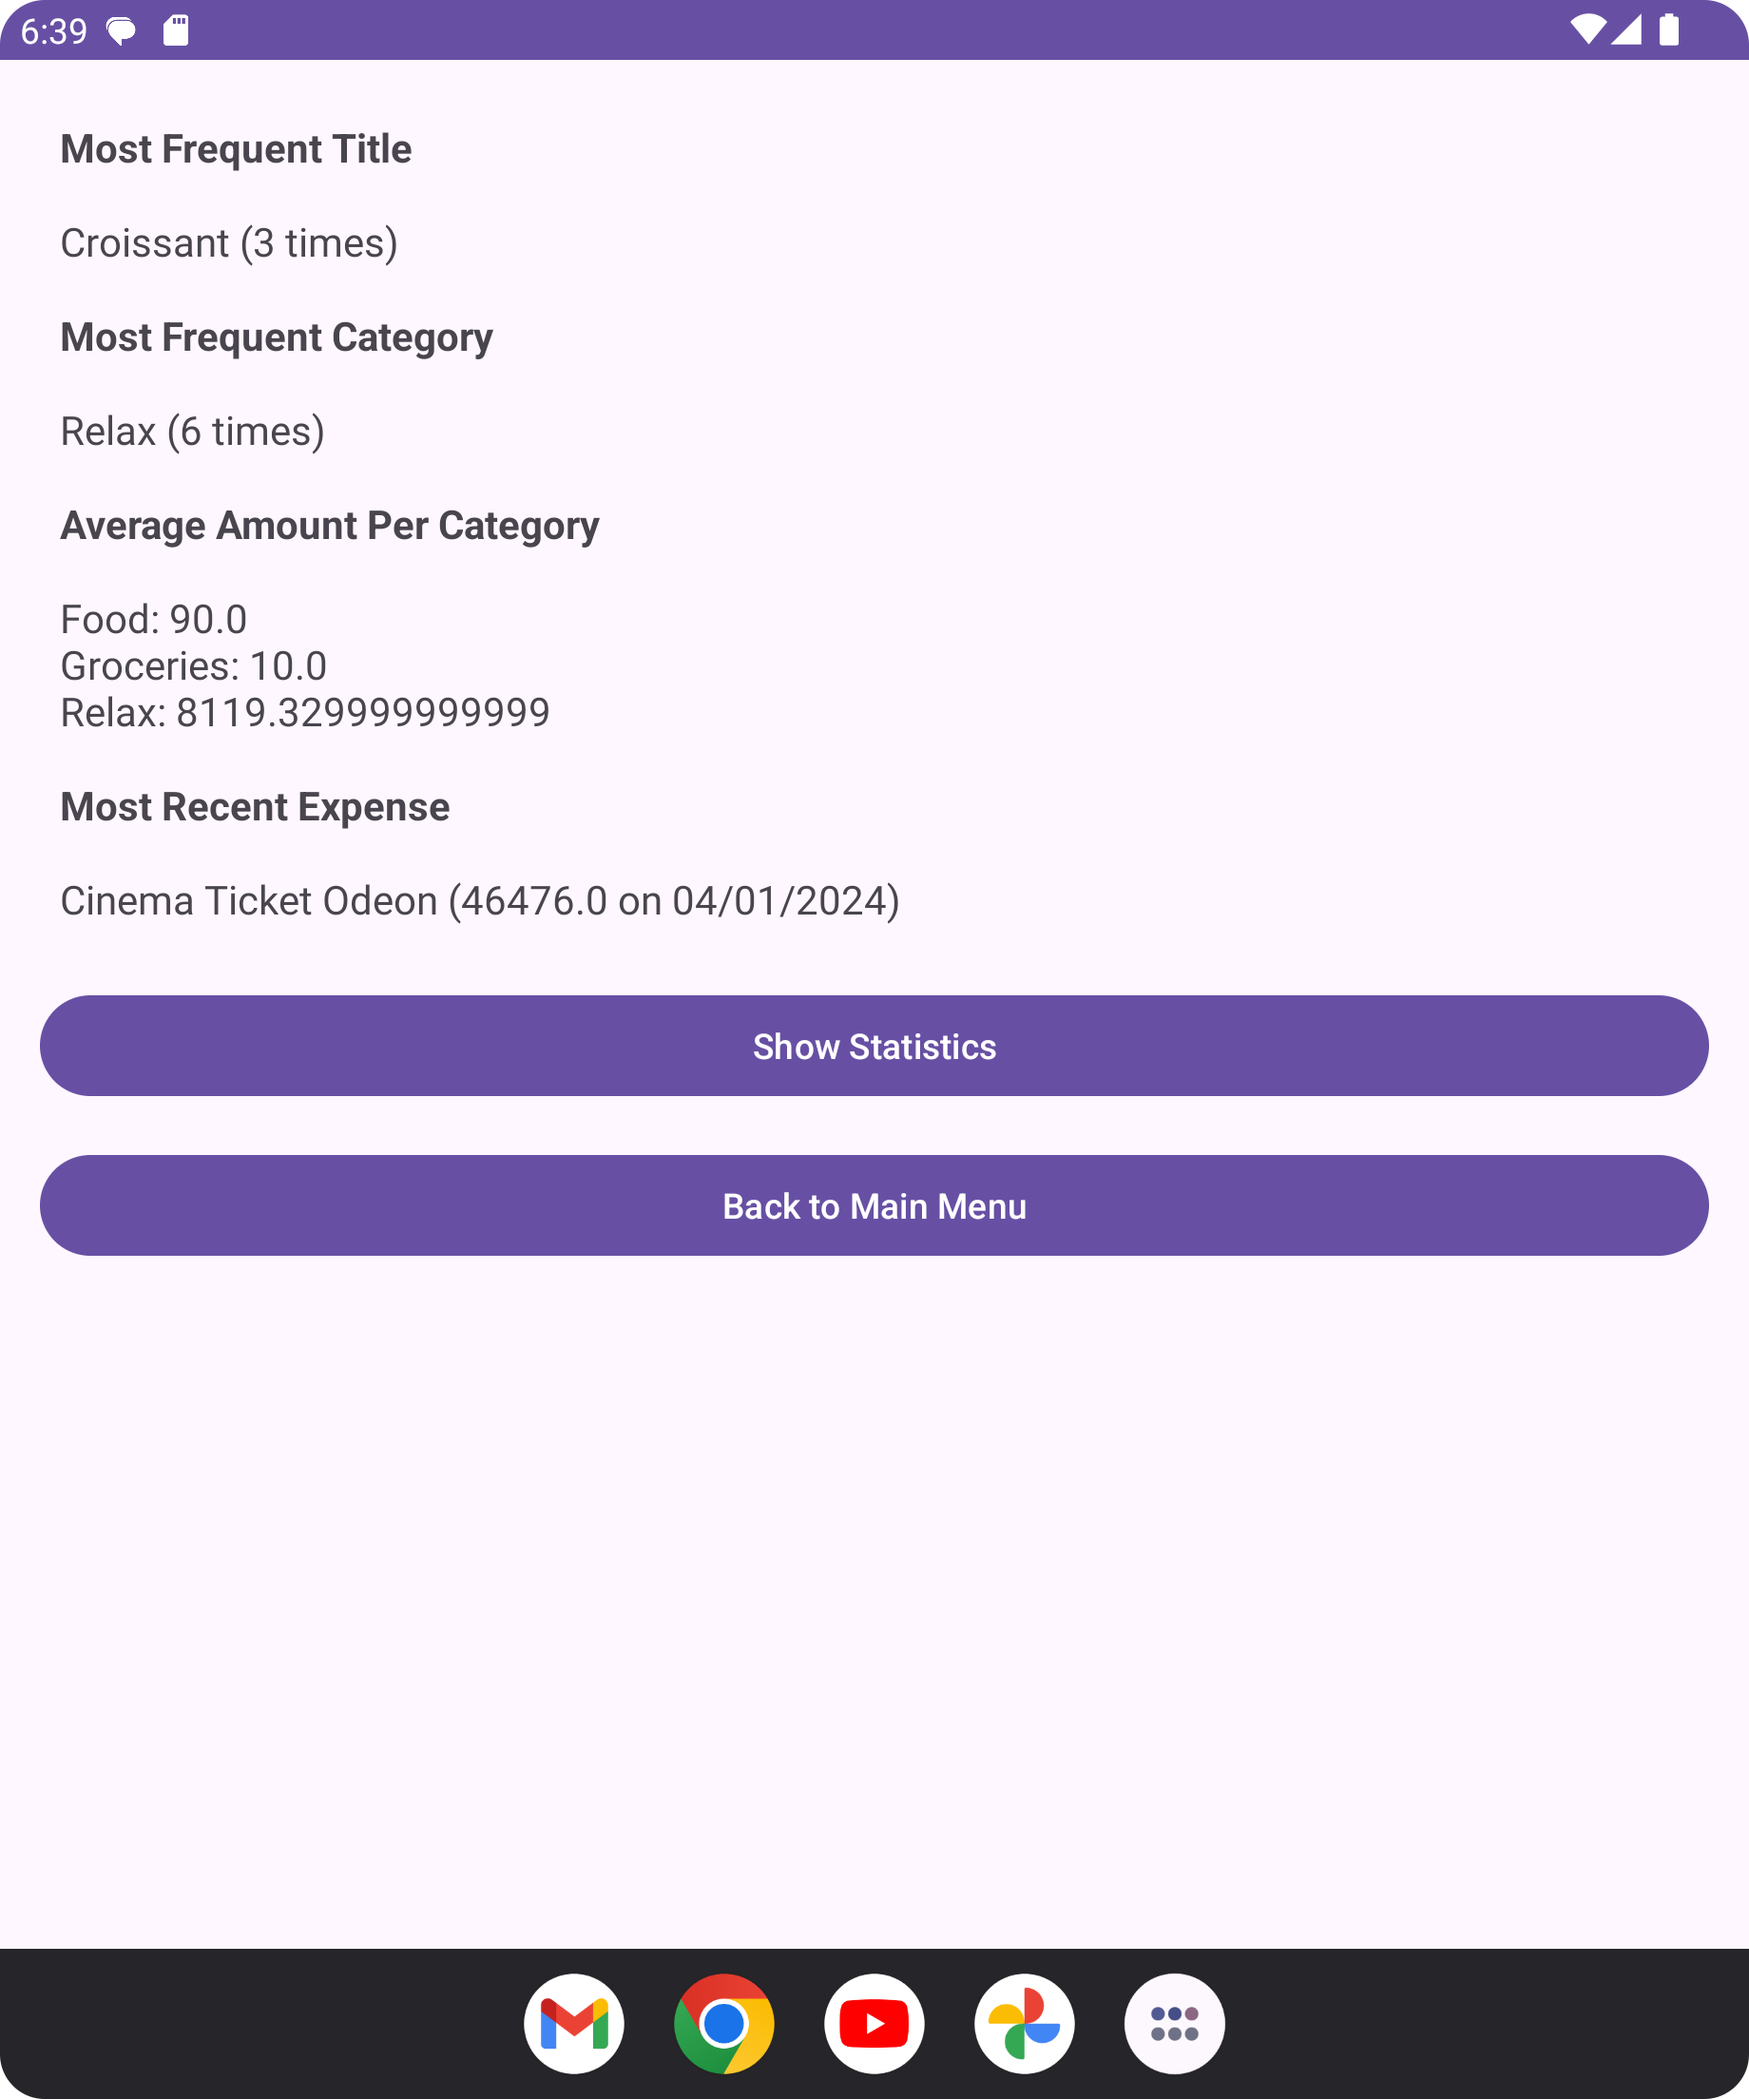
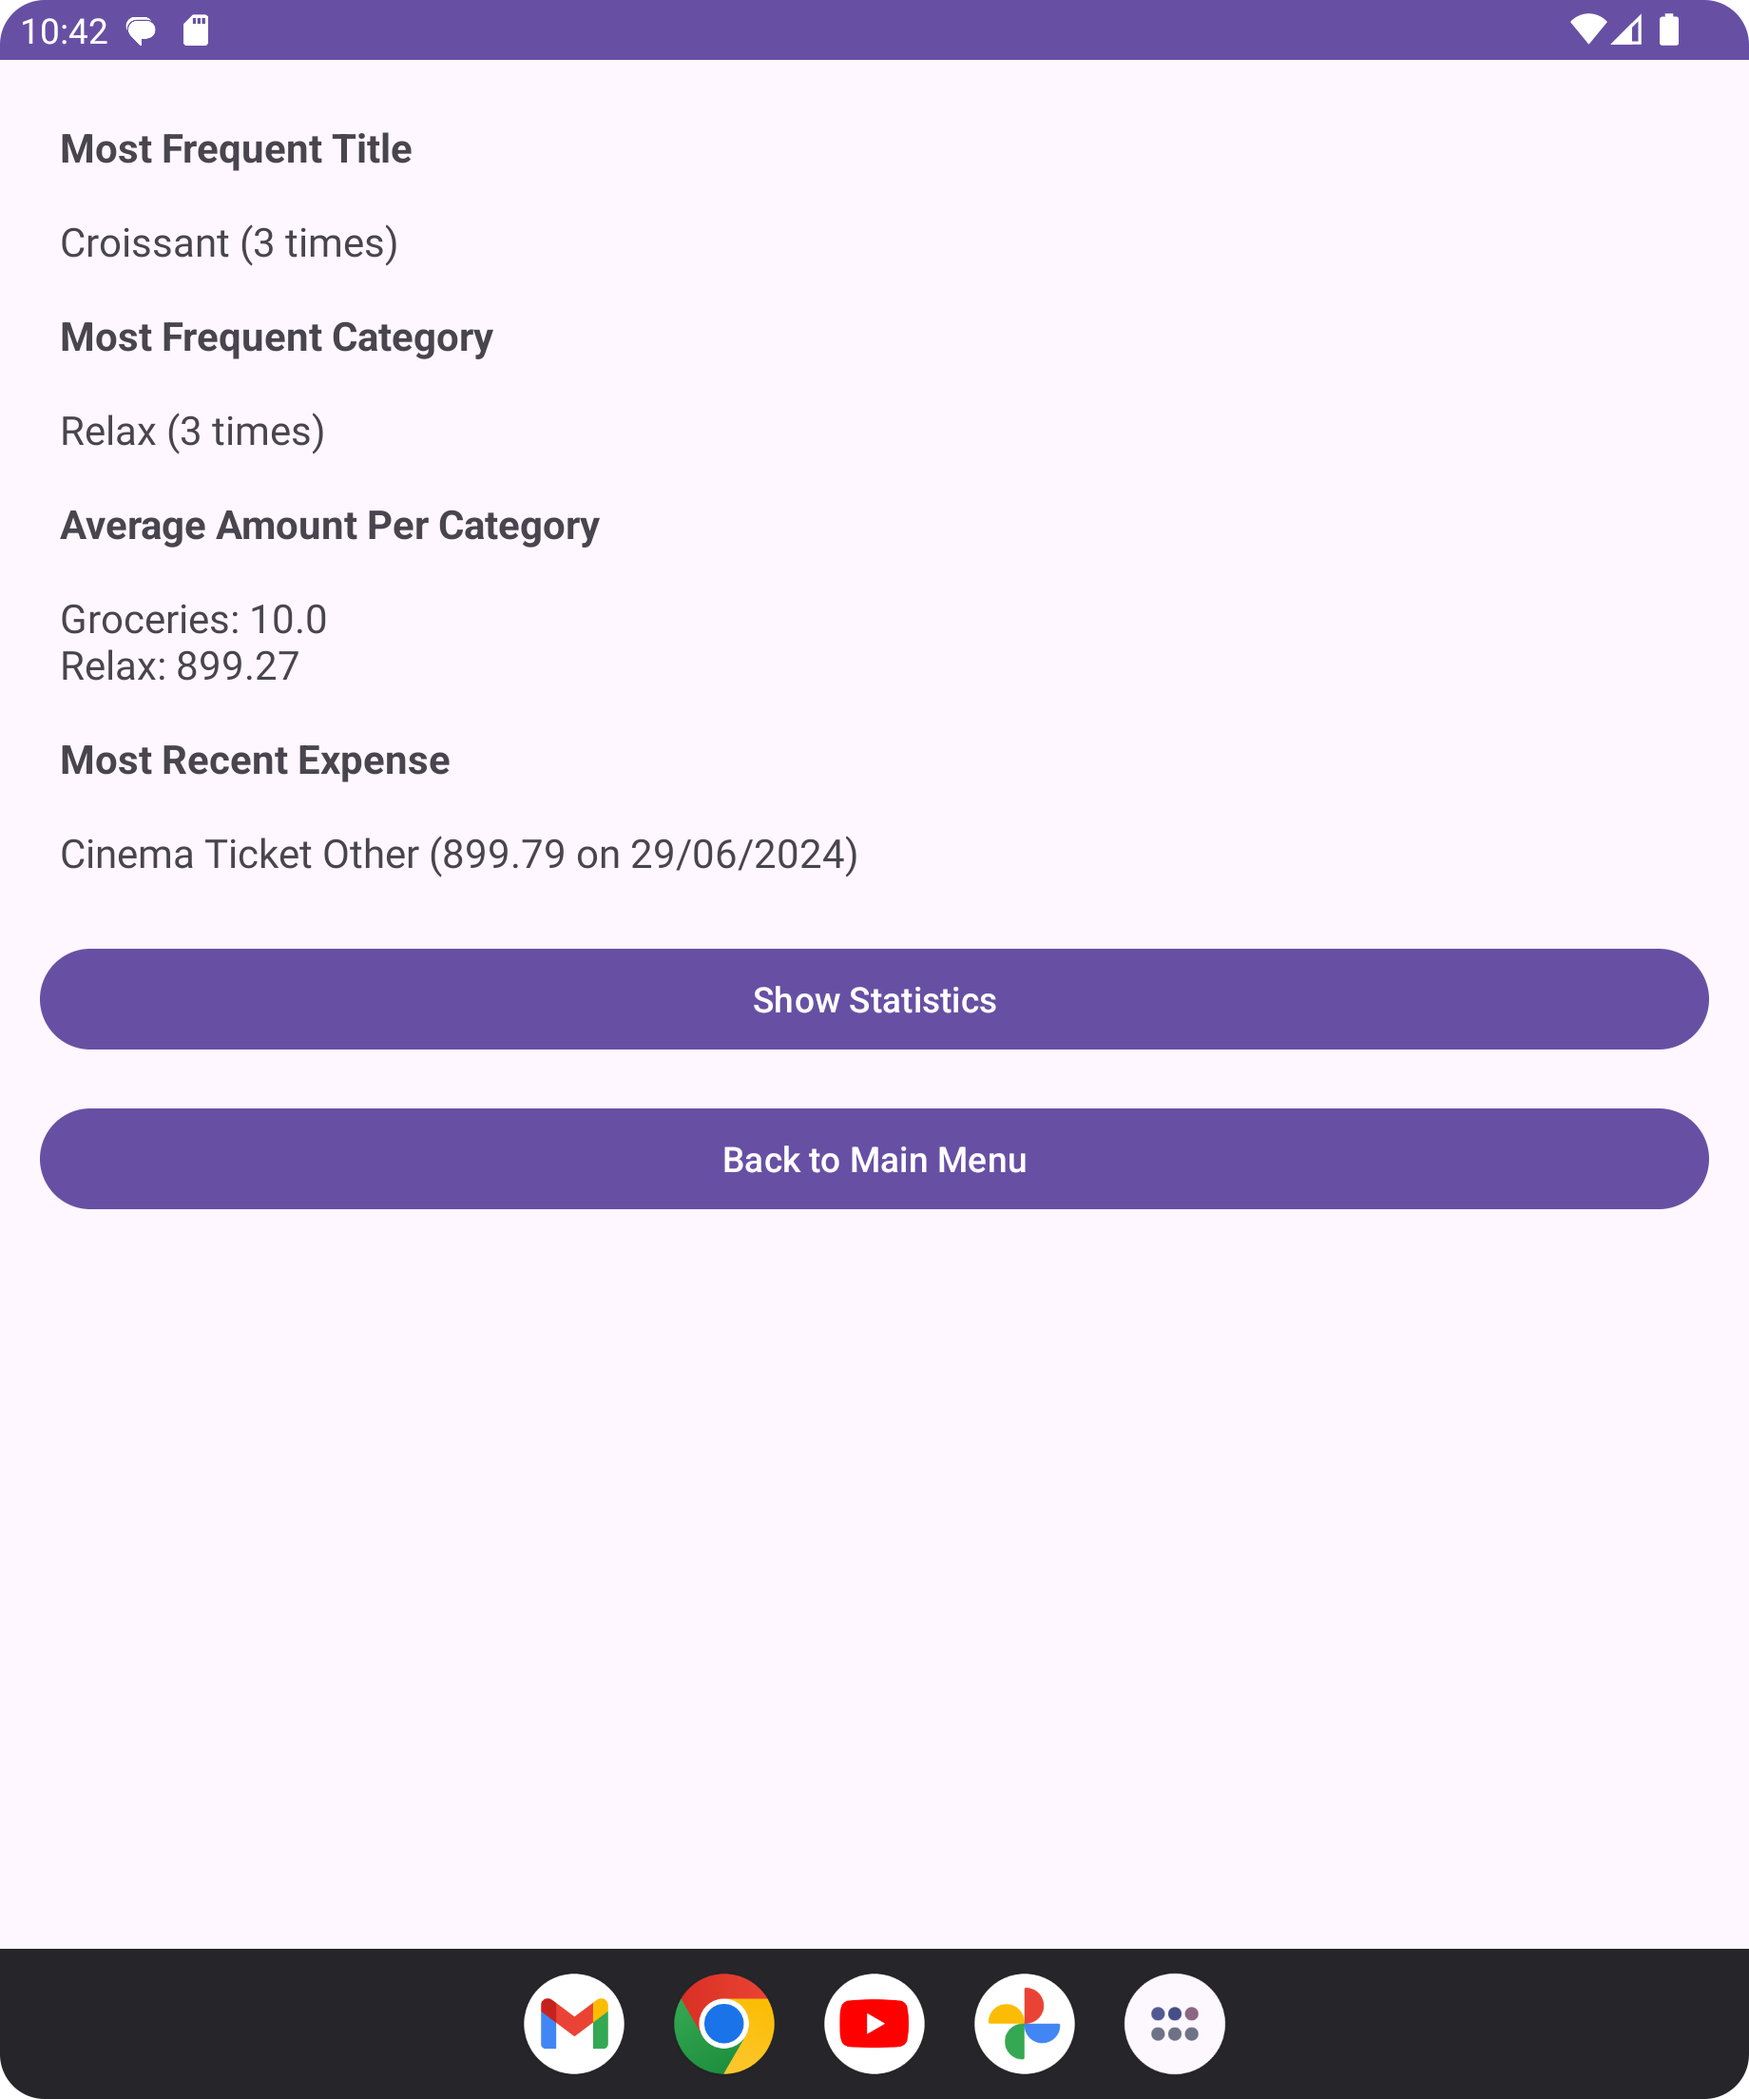
fixing format on statistics activity

Changed region(s): [[0.0, 0.2812, 0.9913, 0.625], [0.0, 0.0, 0.1239, 0.0312]]

diff --git a/app/src/main/java/com/paras_test_android/assignment_paras/ShowStatististicsActivity.kt b/app/src/main/java/com/paras_test_android/assignment_paras/ShowStatististicsActivity.kt
@@ -44,7 +44,8 @@ class ShowStatisticsActivity : AppCompatActivity() {
                     binding.mostFrequentCategoryValue.text = "${mostFrequentCategory.category} (${mostFrequentCategory.count} times)"
                     //binding.averageAmountPerCategoryValue.text = averageAmounts.joinToString("\n") { "${it.category}: ${it.averageAmount}" }
                     binding.averageAmountPerCategoryValue.text = averageAmounts.joinToString("\n") { "${it.category}: ${it.averageAmount.roundToTwoDecimalPlaces()}" }
-                    binding.mostRecentExpenseValue.text = "${mostRecentExpense.title} (${mostRecentExpense.amount} on ${mostRecentExpense.date})"
+                    //binding.mostRecentExpenseValue.text = "${mostRecentExpense.title} (${mostRecentExpense.amount} on ${mostRecentExpense.date})"
+                    binding.mostRecentExpenseValue.text = "${mostRecentExpense.title} (${mostRecentExpense.amount.roundToTwoDecimalPlaces()} on ${mostRecentExpense.date})"
                     Toast.makeText(this@ShowStatisticsActivity, "Statistics updated", Toast.LENGTH_SHORT).show()
                 }
             } catch (e: Exception) {
